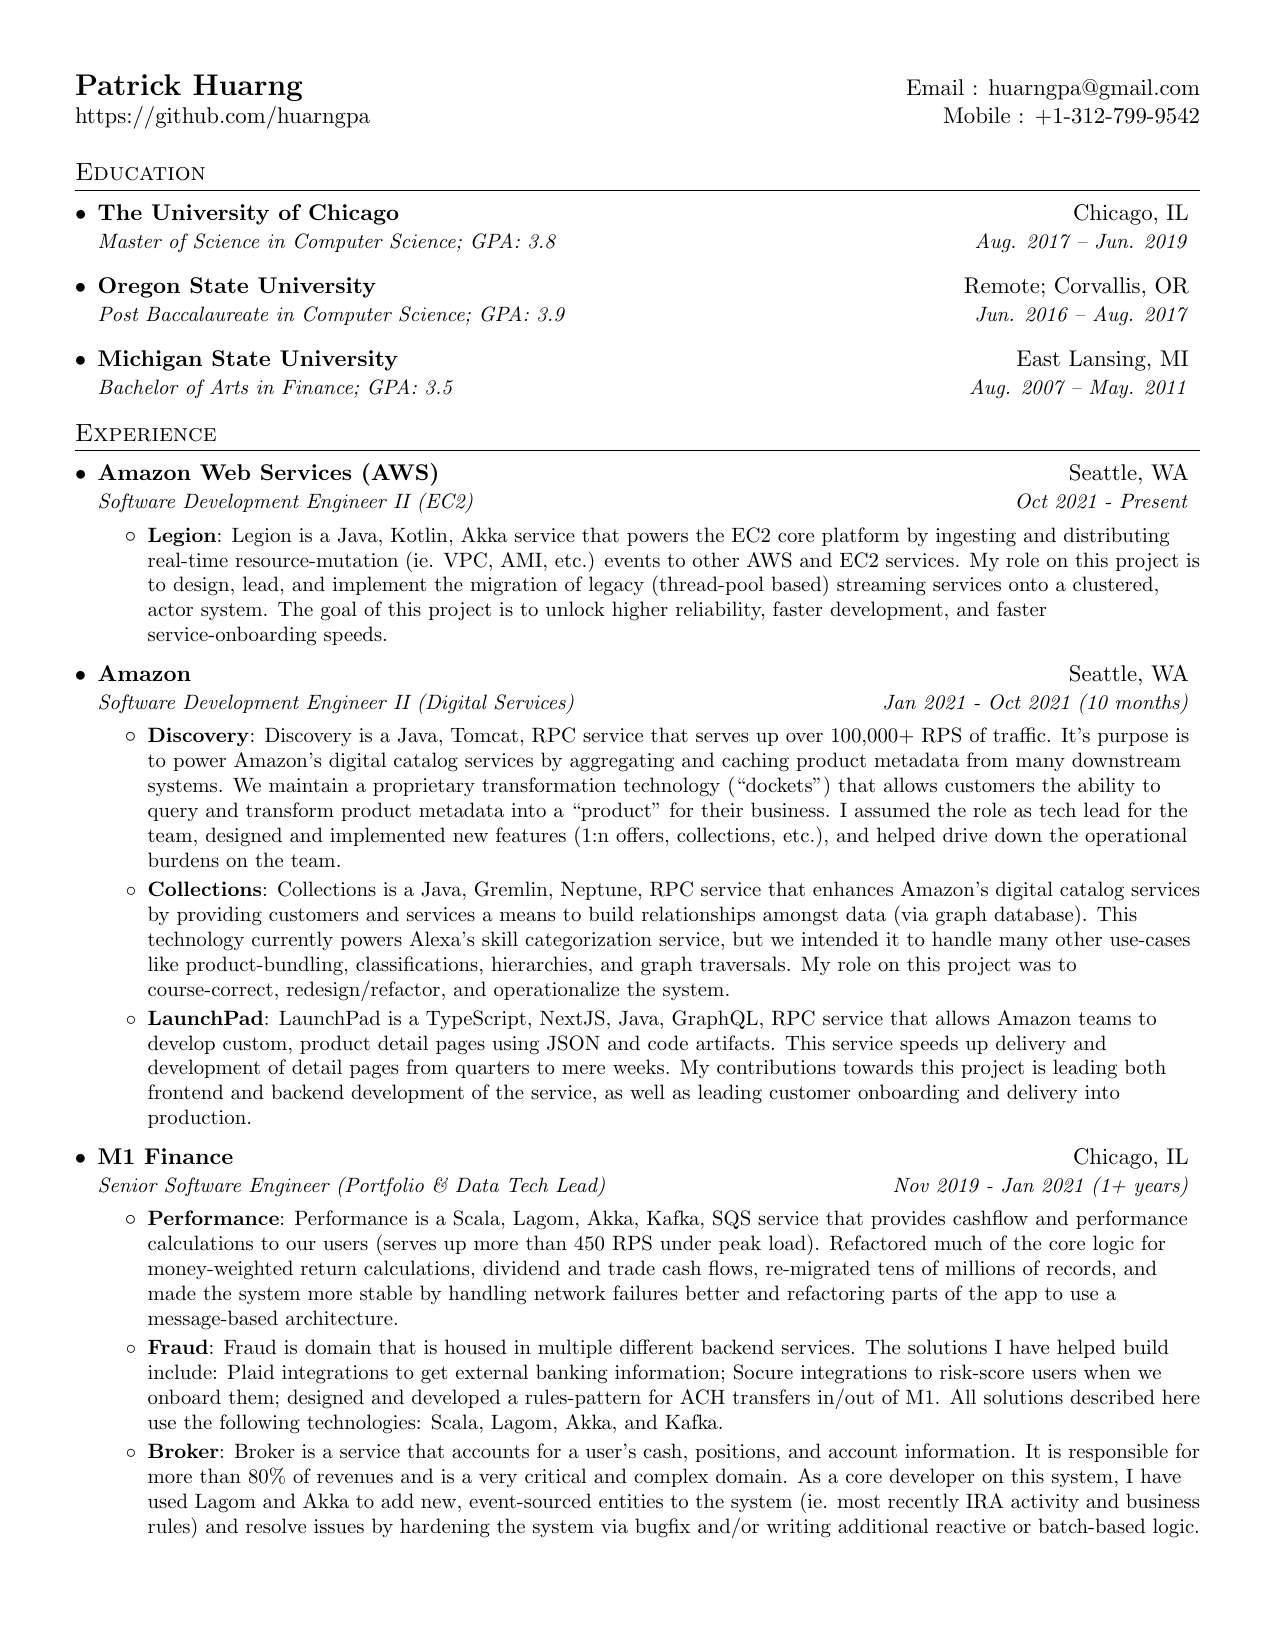
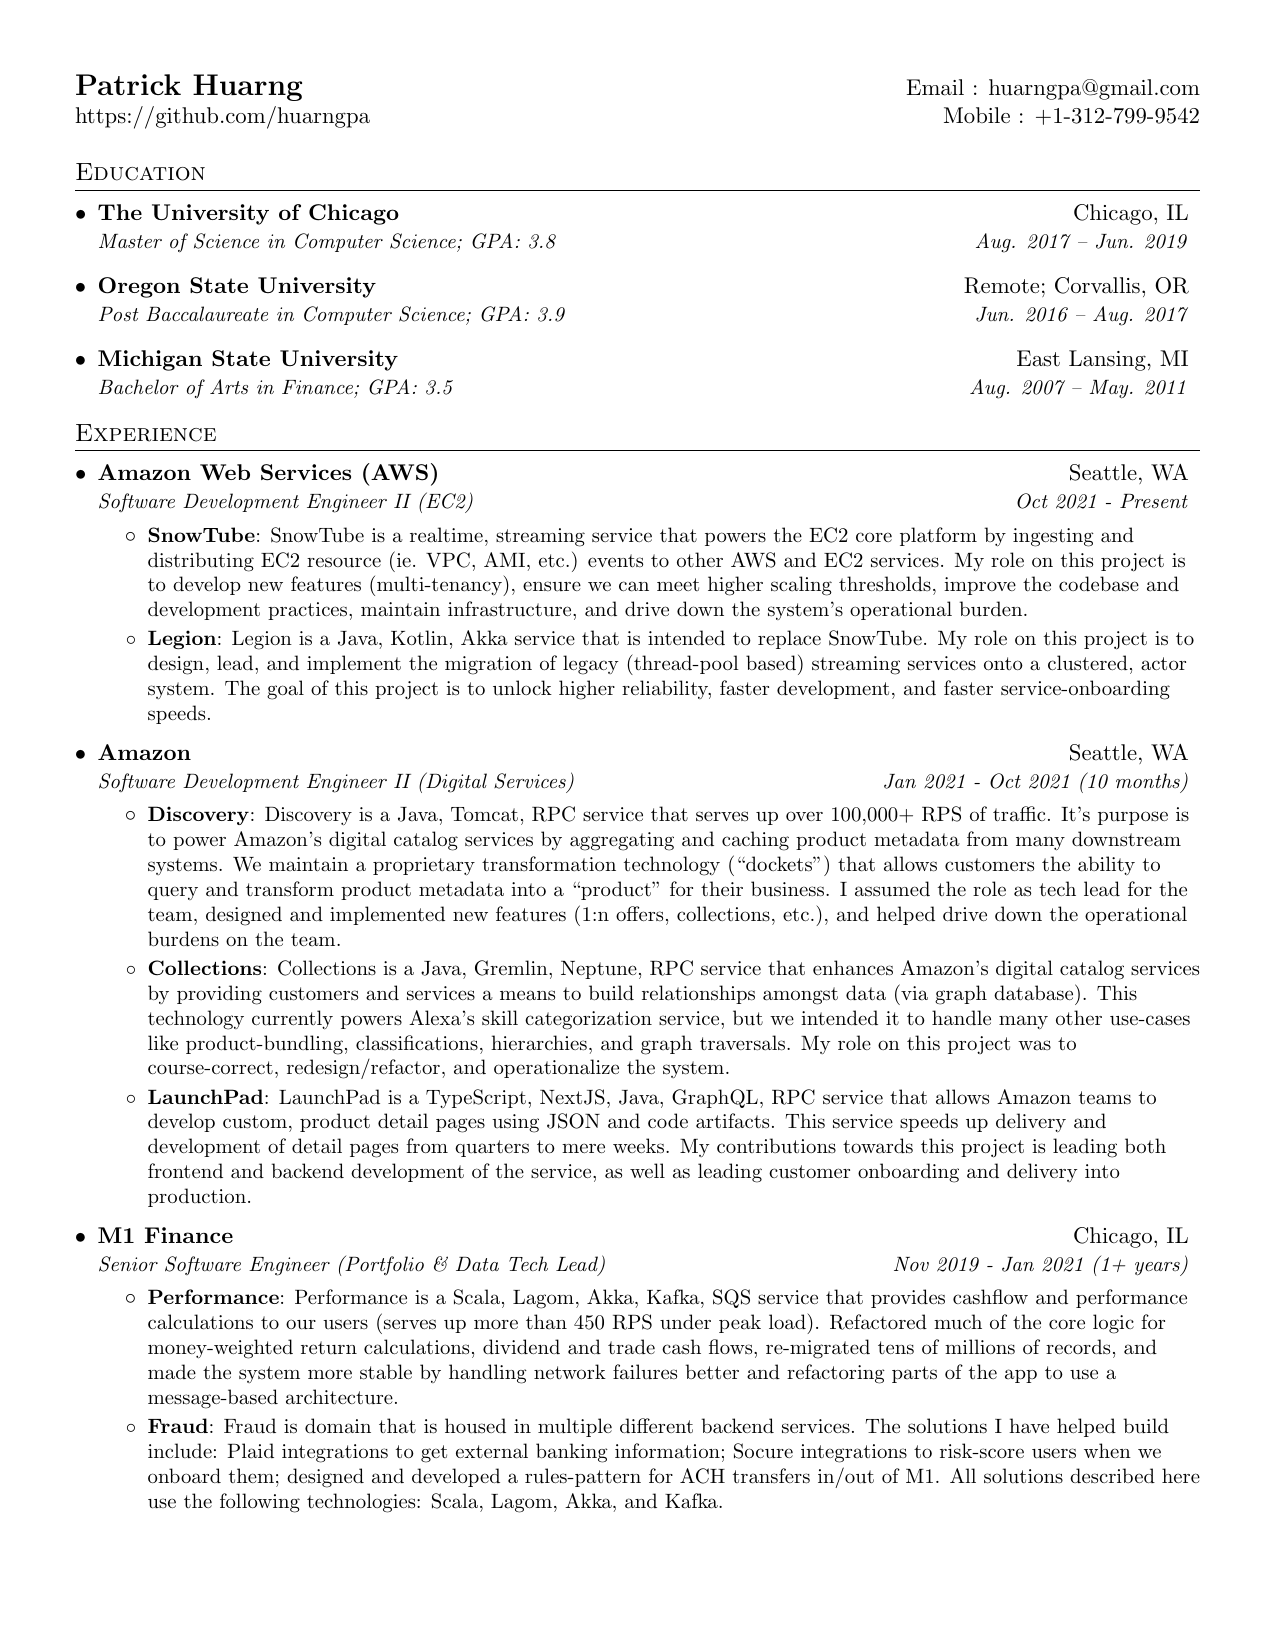
Update resume for SnowTube

Changed region(s): [[0.0612, 0.3089, 0.9482, 0.9267]]

diff --git a/huarngpa-resume.tex b/huarngpa-resume.tex
@@ -100,8 +100,10 @@
       {Amazon Web Services (AWS)}{Seattle, WA}
       {Software Development Engineer II (EC2)}{Oct 2021 - Present}
       \resumeItemListStart
+        \resumeItem{SnowTube}
+          {SnowTube is a realtime, streaming service that powers the EC2 core platform by ingesting and distributing EC2 resource (ie. VPC, AMI, etc.) events to other AWS and EC2 services. My role on this project is to develop new features (multi-tenancy), ensure we can meet higher scaling thresholds, improve the codebase and development practices, maintain infrastructure, and drive down the system's operational burden.}
         \resumeItem{Legion}
-          {Legion is a Java, Kotlin, Akka service that powers the EC2 core platform by ingesting and distributing real-time resource-mutation (ie. VPC, AMI, etc.) events to other AWS and EC2 services. My role on this project is to design, lead, and implement the migration of legacy (thread-pool based) streaming services onto a clustered, actor system. The goal of this project is to unlock higher reliability, faster development, and faster service-onboarding speeds.}
+          {Legion is a Java, Kotlin, Akka service that is intended to replace SnowTube. My role on this project is to design, lead, and implement the migration of legacy (thread-pool based) streaming services onto a clustered, actor system. The goal of this project is to unlock higher reliability, faster development, and faster service-onboarding speeds.}
       \resumeItemListEnd
 
     \resumeSubheading
